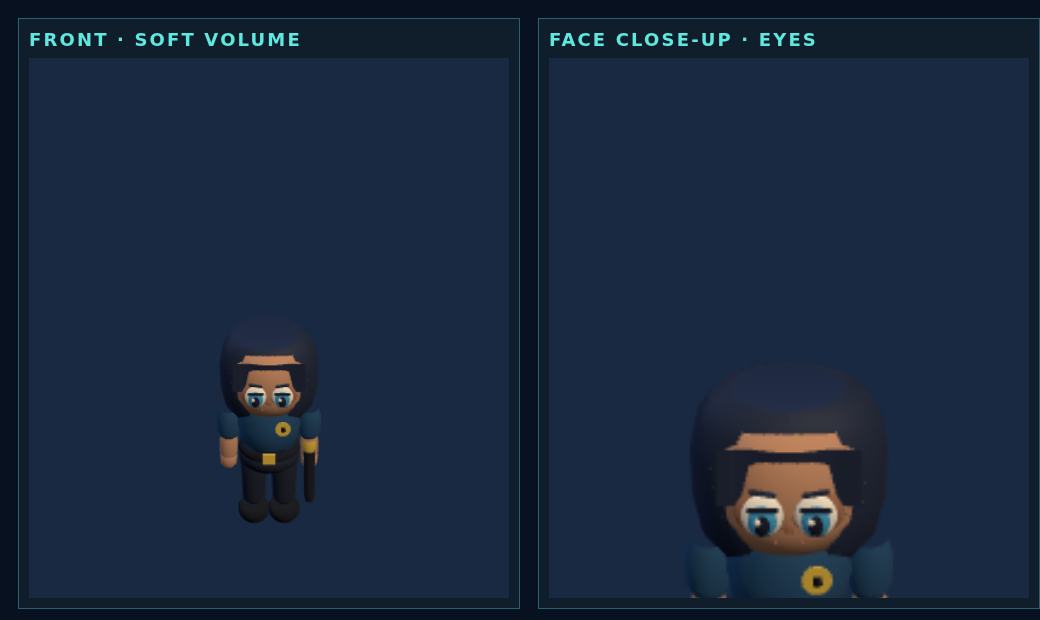
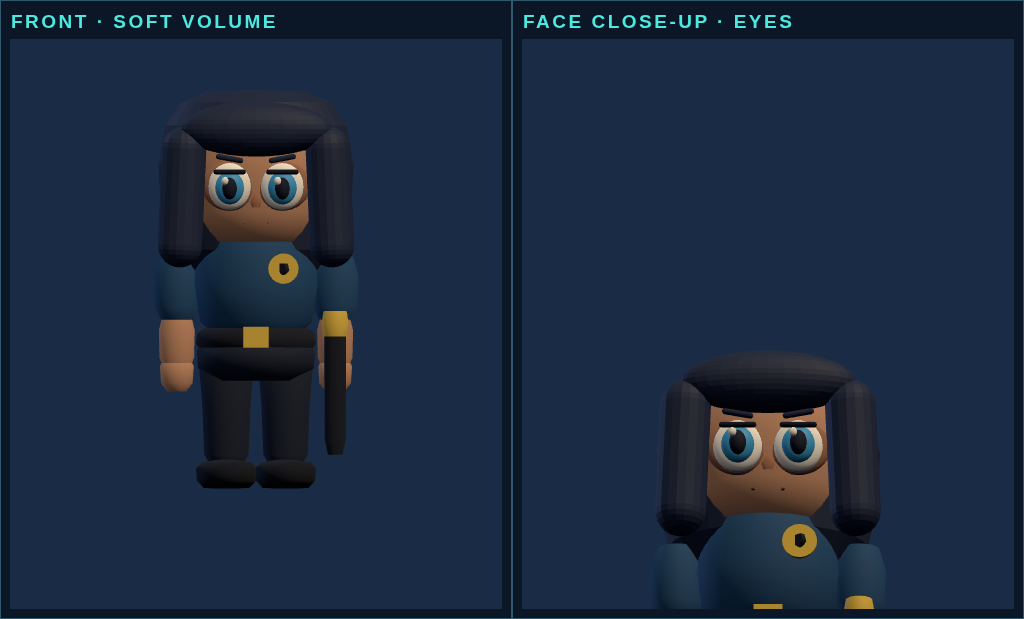
fix: Mara bob soft face mass not helmet cutout

Changed region(s): [[0.0, 0.0, 1.0, 1.0], [0.1562, 0.4911, 0.3438, 0.8595], [0.1562, 0.1535, 0.3438, 0.4604]]

diff --git a/src/game/maraSoft.ts b/src/game/maraSoft.ts
@@ -43,34 +43,33 @@ function roundedFoot(material: THREE.Material): THREE.Mesh {
   foot.scale.set(1, 0.62, 1.45); return foot;
 }
 
-// A shallow authored curtain gives the bob a continuous, readable bang shelf.
+// A broad, softly bowed fringe carries the bob into the forehead without a visor rim.
 function bangGeometry(): THREE.BufferGeometry {
-  const cols = 18; const rows = 7; const width = 0.34; const top = 0.34; const bottom = 0.03;
-  const positions: number[] = []; const uvs: number[] = [];
-  for (let row = 0; row <= rows; row++) {
-    const t = row / rows; const y = top + (bottom - top) * t;
-    for (let col = 0; col <= cols; col++) {
-      const x = -width + (2 * width * col) / cols; const edge = Math.abs(x / width);
-      const wave = 0.018 * Math.cos(x * 18) * (0.35 + 0.65 * edge);
-      positions.push(x, y, 0.30 + 0.035 * (1 - edge * edge) + wave - 0.018 * t); uvs.push(col / cols, 1 - t);
-    }
-  }
-  const indices: number[] = []; const stride = cols + 1;
-  for (let row = 0; row < rows; row++) for (let col = 0; col < cols; col++) {
-    const a = row * stride + col; const b = a + 1; const c = a + stride; const d = c + 1;
-    indices.push(a, c, b, b, c, d);
-  }
-  const geometry = new THREE.BufferGeometry(); geometry.setAttribute("position", new THREE.Float32BufferAttribute(positions, 3)); geometry.setAttribute("uv", new THREE.Float32BufferAttribute(uvs, 2));
-  geometry.setIndex(indices); geometry.computeVertexNormals(); return geometry;
+  const geometry = new THREE.SphereGeometry(1, 32, 18);
+  geometry.scale(0.36, 0.13, 0.12); geometry.translate(0, 0.29, 0.39);
+  geometry.computeVertexNormals(); return geometry.toNonIndexed();
 }
+
+// Rounded cheek-length locks overlap the cap edge so the face meets hair as a mass,
+// not as skin showing through an oval window. Their ends stay soft like a bob.
+function sideFallGeometry(side: -1 | 1): THREE.BufferGeometry {
+  const geometry = new THREE.CapsuleGeometry(0.105, 0.46, 7, 18);
+  geometry.applyMatrix4(new THREE.Matrix4().makeRotationZ(side * 0.045));
+  geometry.applyMatrix4(new THREE.Matrix4().makeTranslation(side * 0.35, -0.03, 0.36));
+  geometry.computeVertexNormals(); return geometry.toNonIndexed();
+}
+
 function hairShell(): THREE.BufferGeometry {
   const cap = new THREE.LatheGeometry([
     new THREE.Vector2(0.22, -0.43), new THREE.Vector2(0.31, -0.39), new THREE.Vector2(0.39, -0.28),
     new THREE.Vector2(0.43, -0.10), new THREE.Vector2(0.44, 0.13), new THREE.Vector2(0.41, 0.31),
     new THREE.Vector2(0.34, 0.42), new THREE.Vector2(0.22, 0.47), new THREE.Vector2(0, 0.48),
   ], 40);
-  cap.applyMatrix4(new THREE.Matrix4().makeScale(1.05, 1, 0.84)); cap.applyMatrix4(new THREE.Matrix4().makeTranslation(0, 0, -0.075)); cap.computeVertexNormals();
-  const merged = mergeGeometries([cap, bangGeometry()], false); if (!merged) throw new Error("Mara hair geometry merge failed");
+  // Keep the full lathed crown: this seals the top and wraps the back of the bob.
+  cap.applyMatrix4(new THREE.Matrix4().makeScale(1.05, 1, 0.84));
+  cap.applyMatrix4(new THREE.Matrix4().makeTranslation(0, 0, -0.075)); cap.computeVertexNormals();
+  const merged = mergeGeometries([cap.toNonIndexed(), bangGeometry(), sideFallGeometry(-1), sideFallGeometry(1)], false);
+  if (!merged) throw new Error("Mara hair geometry merge failed");
   merged.computeVertexNormals(); return merged;
 }
 
